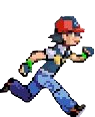
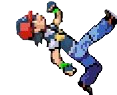
Add files via upload

diff --git a/sketch.js b/sketch.js
@@ -1,15 +1,142 @@
-var ww,wh;
+var background0,background1,background2;
+var ground,state=0;
+var char0,char1,char2,char3=0;
+var mon0,mon1,mon2,mon3;
+var sco0,sco1,sco2,sco3;
+var imp0,imp1,imp2=0;
+var score=0;
+var jj,ee;
 function preload(){
-
+    background0 = loadImage("background.png");
+    char0 = loadAnimation("ash/1.png","ash/2.png","ash/3.png")
+    char2 = loadAnimation("ash/1.png")
+    sco2 = loadAnimation("ball2/1.png","ball2/7.png","ball2/11.png","ball2/15.png","ball2/20.png","ball2/25.png","ball2/28.png","ball2/34.png")
+    mon2 = loadAnimation("ball1/1.png","ball1/10.png","ball1/17.png","ball1/22.png","ball1/26.png","ball1/32.png","ball1/34.png","ball1/39.png")
 }
 function setup(){
-    ww = window.innerWidth-10;
-    wh = window.innerHeight-10;
-    createCanvas(ww,wh);
+    createCanvas(910,1740);
+    char0.frameDelay = 2;
+    sco2.frameDelay = 0.5;
+    mon2.frameDelay = 0.5;
+    background1 = createSprite(455,870,910,1766);
+    background1.addImage("image",background0);
+    background1.scale = 6;
+    background2 = createSprite(455,-870,910,1766);
+    background2.addImage("image",background0);
+    background2.scale = 6;
+    background1.velocityY = 28;
+    background2.velocityY = 28;
+    char1 = createSprite(850,1550,100,50);
+    char1.addAnimation("image",char0);
+    char1.scale = 3;
+    ground = createSprite(910,870,10,1740);
+    sco0 = createGroup();
+    mon0 = createGroup();
+    ee = createButton('START')
+    ee.size(200,200);
+    ee.position(910,1540);
+    jj = createButton('JUMP')
+    jj.size(200,200);
+    jj.position(910,0);
 }
 function draw(){
     background("black");
-    text(ww,100,100)
-    text(wh,200,100)
+    char1.collide(ground)
+    if(background1.y>2610){
+        background1.y=-850;
+    }
+    if(background2.y>2610){
+        background2.y=-850;
+    }
+    char1.velocityX = char1.velocityX + 20;
+    if(state===0){
+    background1.velocityY = 0;
+    background2.velocityY = 0;
+    char1.addAnimation("image",char2)
+    if(keyDown("ENTER")){
+        state = 1;
+    }
+    ee.mousePressed(()=>{
+        state=1;
+    });
+    }
+    if(state===1){
+    if(keyDown("space")&&char1.x>728){
+        char1.velocityX = -100;
+    }
+    jj.mousePressed(()=>{
+        if(char1.x>728){
+            char1.velocityX = -100;
+        }
+    });
+    background1.velocityY = 28;
+    background2.velocityY = 28;
+    if(char3===0){
+        char1.addAnimation("image",char0);
+        char3=1;
+    }
+    
+    if(frameCount%80===0){
+        imp0 = Math.round(random(1,3))
+        if(imp0===1){
+            sco1 = createSprite(830,-50,100,100);
+            sco1.collide(ground);
+            sco1.velocityY=28;
+            //sco1.velocityX=5;
+            sco0.add(sco1);
+            sco1.addAnimation("im",sco2)
+            sco1.scale = 0.6;
+        }
+        if(imp0===2){
+            mon1 = createSprite(830,-50,100,100);
+            mon1.collide(ground);
+            mon1.velocityY=28;
+            //sco1.velocityX=5;
+            mon0.add(mon1);
+            mon1.addAnimation("im",mon2)
+            mon1.scale = 0.6;
+        }
+        if(imp0===3){
+            mon1 = createSprite(830,-50,100,100);
+            mon1.collide(ground);
+            mon1.velocityY=28;
+            //sco1.velocityX=5;
+            mon0.add(mon1);
+            mon1.addAnimation("im",mon2)
+            mon1.scale = 0.6;
+        }
+    }
+    if(char1.isTouching(mon0)){
+        state=2;
+        mon0.destroyEach();
+    }
+    if(char1.isTouching(sco0)){
+        score=score+1;
+        sco0.destroyEach();
+    }
+    }
+    if(state===2){
+        if(imp2===0){
+            alert("Gameover");
+            
+            imp2=1
+        }
+        mon0.destroyEach();
+        sco0.destroyEach();
+        char1.addAnimation("img",char2);
+        background1.velocityY=0;
+        background2.velocityY=0;
+    }
+    if(score>=10){
+        state=3
+    }
+    if(state===3){
+        mon0.destroyEach();
+        sco0.destroyEach();
+        char1.addAnimation("img",char2);
+        background1.velocityY=0;
+        background2.velocityY=0;
+        alert("You win");
+    }
     drawSprites();
 }
